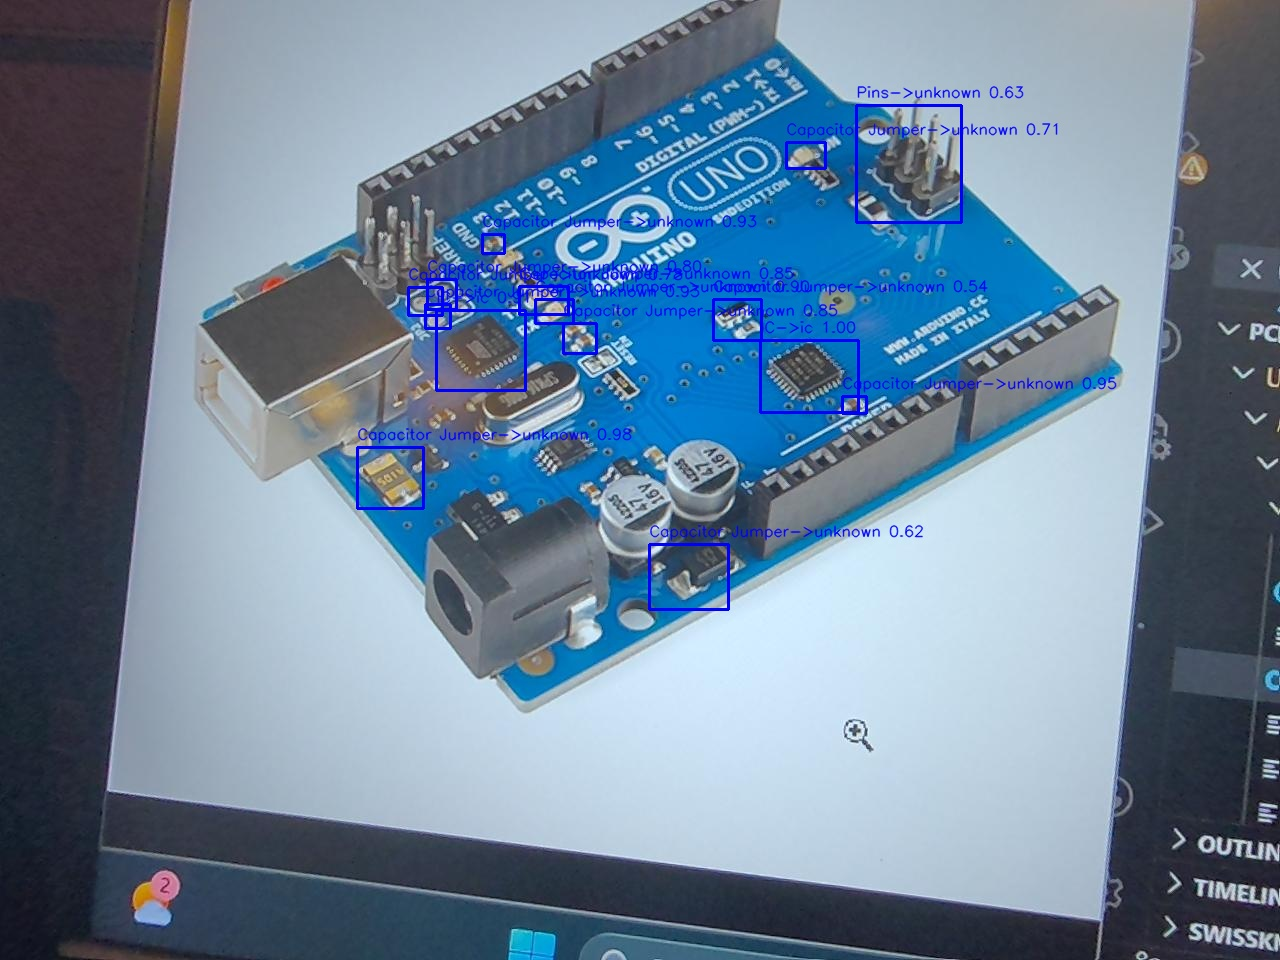
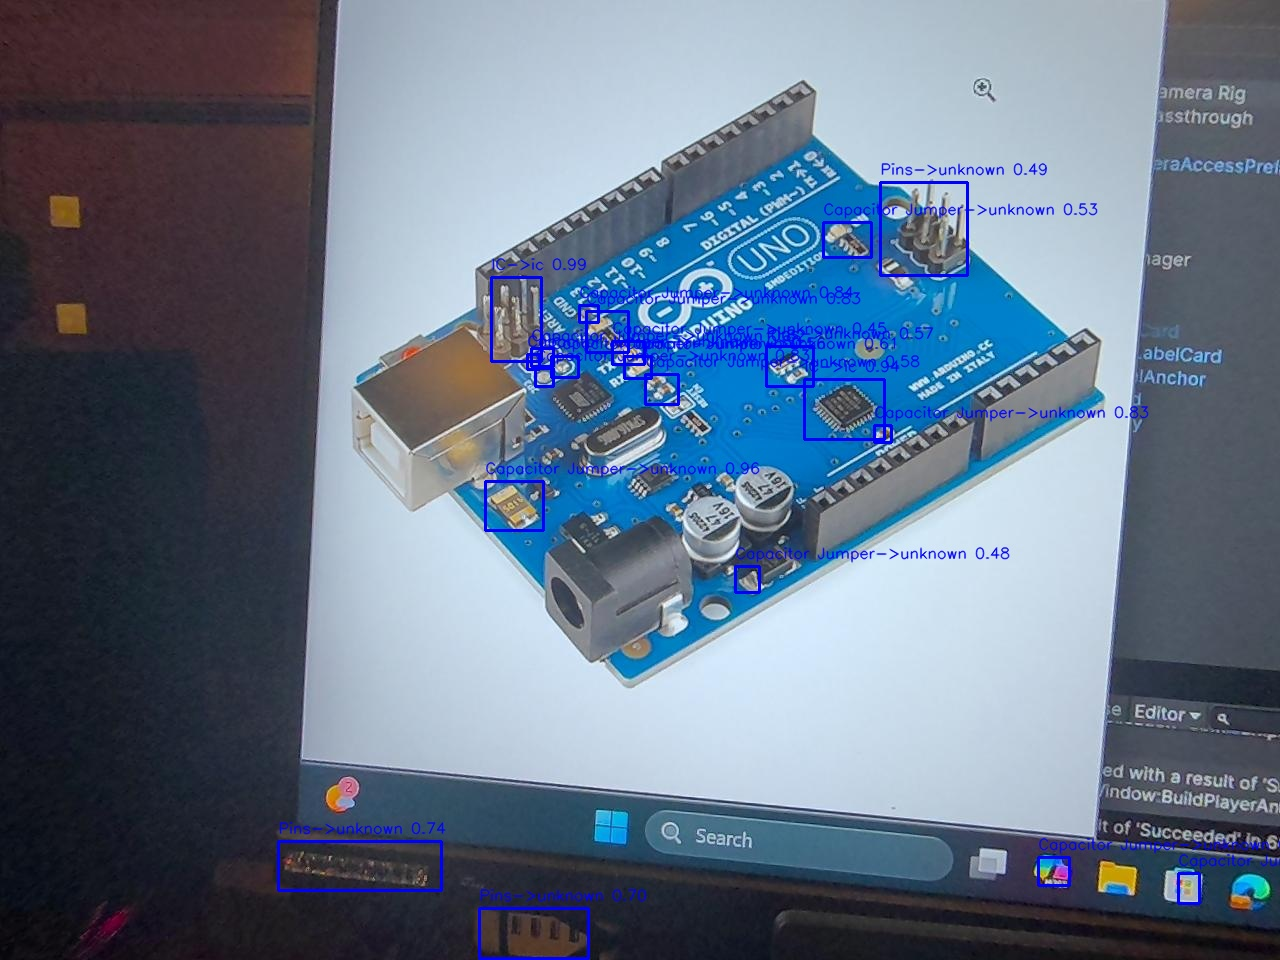
Reach 1: Make Labels Resizeable depending on details mode

diff --git a/Unity-PassthroughCameraApiSamples-main/Assets/Scripts/UI/ComponentLabelCard.cs b/Unity-PassthroughCameraApiSamples-main/Assets/Scripts/UI/ComponentLabelCard.cs
@@ -9,6 +9,20 @@ public class ComponentLabelCard : MonoBehaviour
     [SerializeField] private GameObject visualRoot;
     [SerializeField] private Transform faceTargetRoot;
 
+    [Header("Sizing")]
+    [SerializeField] private RectTransform canvasRootRect;
+    [SerializeField] private RectTransform backplateRect;
+    [SerializeField] private RectTransform contentRootRect;
+
+    [SerializeField] private float compactCanvasHeight = 210f;
+    [SerializeField] private float expandedCanvasHeight = 300f;
+
+    [SerializeField] private float compactBackplateHeight = 178f;
+    [SerializeField] private float expandedBackplateHeight = 268f;
+
+    [SerializeField] private float compactContentHeight = 136f;
+    [SerializeField] private float expandedContentHeight = 220f;
+
     [Header("Text")]
     [SerializeField] private TextMeshProUGUI titleText;
     [SerializeField] private TextMeshProUGUI subtitleText;
@@ -100,6 +114,23 @@ public class ComponentLabelCard : MonoBehaviour
         SnapFacingUser();
     }
 
+    private void ApplySize(bool expanded)
+    {
+        SetHeight(canvasRootRect, expanded ? expandedCanvasHeight : compactCanvasHeight);
+        SetHeight(backplateRect, expanded ? expandedBackplateHeight : compactBackplateHeight);
+        SetHeight(contentRootRect, expanded ? expandedContentHeight : compactContentHeight);
+    }
+
+    private void SetHeight(RectTransform rt, float height)
+    {
+        if (rt == null)
+            return;
+
+        Vector2 size = rt.sizeDelta;
+        size.y = height;
+        rt.sizeDelta = size;
+    }
+
     public void RefreshText(ComponentResult component, bool detailsMode)
     {
         if (component == null) return;
@@ -110,14 +141,20 @@ public class ComponentLabelCard : MonoBehaviour
         if (subtitleText != null)
             subtitleText.text = component.GetResolvedLabelSubtitle();
 
+        bool showDetail = false;
+
         if (detailText != null)
         {
             string detail = detailsMode ? GetResolvedDetailText(component) : string.Empty;
             detailText.text = detail;
 
+            showDetail = !string.IsNullOrWhiteSpace(detail);
+
             if (hideDetailWhenEmpty)
-                detailText.gameObject.SetActive(!string.IsNullOrWhiteSpace(detail));
+                detailText.gameObject.SetActive(showDetail);
         }
+
+        ApplySize(detailsMode && showDetail);
     }
 
     public void SetVisible(bool visible)
